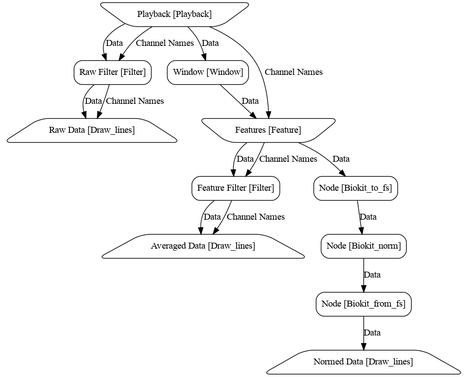
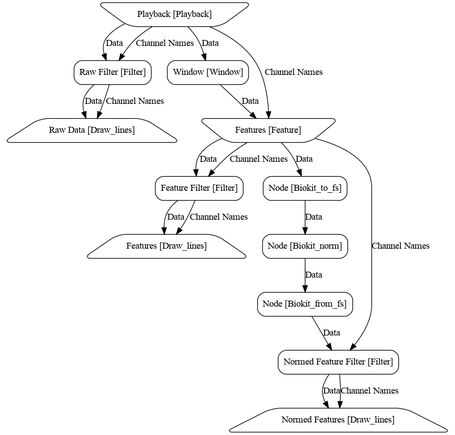
wip

Changed region(s): [[0.0, 0.0, 0.9846, 1.0], [0.7692, 0.3501, 0.8, 0.3793]]

diff --git a/src/nodes/node.py b/src/nodes/node.py
@@ -142,15 +142,18 @@ class Node():
             raise(ValueError("Module does not have inputs."))
         if self.input_is_set:
             raise(ValueError("Module input already set."))
+        # if str(self) in list(map(str, self.discover_parents(self))):
+        #     raise(ValueError("Module name already taken by parent"))
         if not isinstance(input_classes, list):
             input_classes = [input_classes]
             
         for inputId, inputClass in enumerate(input_classes):
-            inputClass.add_output(self, inputId)
+            inputClass.add_output(self, data_id=inputId)
             
         self.input_classes = input_classes
         self.input_is_set = True
         
+    # TODO: think about api, should we rather use set_inputs instead of add_output? (i think that was the original intention, but i kinda like the current state quite a lot)
     def add_output(self, new_output, data_id=None, data_stream="Data", recv_name='receive_data'):
         """
         Adds a new class that this class will output data to. Used
@@ -251,7 +254,7 @@ class Node():
         dot = Digraph(format = 'png', strict = False)
 
         # as the str rep need to be unique we can get only the unique instances this way 
-        nodes = list({str(n):n for n in self.discover_nodes(self)}.values())
+        nodes = list({str(n):n for n in self.discover_childs(self)}.values())
 
         # First pass: create nodes
         for node in nodes:
@@ -274,14 +277,22 @@ class Node():
 
 
     @classmethod
-    def discover_nodes(self, node):
+    def discover_childs(self, node):
         if len(node.output_classes) > 0:
-            childs = [n.discover_nodes(n) for n in node.get_outputs()]
+            childs = [n.discover_childs(n) for n in node.get_outputs()]
             return [node] + list(np.concatenate(childs))
         return [node]
 
+    # TODO: doesn't currently work, as we are ignoring the set_inputs api and are using the add_output one, above is a todo to reconsider
+    @classmethod
+    def discover_parents(self, node):
+        if len(node.input_classes) > 0:
+            parents = [n.discover_parents(n) for n in node.input_classes]
+            return [node] + list(np.concatenate(parents))
+        return [node]
+
     def save (self, path):
-        nodes = self.discover_nodes(self)
+        nodes = self.discover_childs(self)
         
         # TODO: fix this, as we now can have two inputs with different streams :D
         # node_names = list(map(str, nodes))

diff --git a/src/nodes/draw_lines.py b/src/nodes/draw_lines.py
@@ -37,6 +37,7 @@ class Draw_lines(Node):
         self.data_queue = mp.SimpleQueue()
         self.name_queue = mp.SimpleQueue()
 
+        self.names = [''] * n_plots
         self.axes = []
 
     def _get_setup(self):
@@ -54,10 +55,11 @@ class Draw_lines(Node):
         if self.n_plots <= 1:
             axes = [axes]
 
-        for ax in axes:
+        for name, ax in zip(self.names, axes):
             ax.set_ylim(*self.ylim)
             ax.set_xlim(0, self.xAxisLength)
             ax.set_yticks([])
+            ax.set_ylabel(name)
             ticks = np.linspace(0, self.xAxisLength, 11).astype(np.int)
             ax.set_xticks(ticks)
             ax.set_xticklabels(ticks - self.xAxisLength)
@@ -71,11 +73,17 @@ class Draw_lines(Node):
         def update (**kwargs):
             nonlocal self
 
+            # TODO: figure out how to update the label names once the initial draw happened!
+
             # update axis names
-            while not self.name_queue.empty():
-                names = self.name_queue.get()
+            if not self.name_queue.empty():
+                while not self.name_queue.empty():
+                    self.names = self.name_queue.get()
+                
                 for i, ax in enumerate(self.axes):
-                    ax.set_ylabel(names[i])
+                    ax.set_ylabel(self.names[i])
+                return [ax.yaxis.label for ax in self.axes]
+                # TODO: figure out if an early return messes up some of the data visualiztion, ie if some parts are thrown away. don't think so, but double check...
 
             # update axis values
             while not self.data_queue.empty():

diff --git a/create_pipeline.py b/create_pipeline.py
@@ -71,7 +71,7 @@ filter2 = Filter(name="Feature Filter", names=channel_names_fts)
 fts.add_output(filter2)
 fts.add_output(filter2, data_stream="Channel Names", recv_name="receive_channels")
 
-draw_fts = Draw_lines(name='Averaged Data', n_plots=len(channel_names_fts), xAxisLength=x_processed)
+draw_fts = Draw_lines(name='Features', n_plots=len(channel_names_fts), xAxisLength=x_processed)
 filter2.add_output(draw_fts)
 filter2.add_output(draw_fts, data_stream="Channel Names", recv_name="receive_channels")
 
@@ -84,8 +84,14 @@ to_fs.add_output(norm)
 from_fs = Biokit_from_fs()
 norm.add_output(from_fs)
 
-draw_normed = Draw_lines(name='Normed Data', n_plots=len(channel_names_fts), ylim=(-5, 5), xAxisLength=x_processed)
-from_fs.add_output(draw_normed)
+filter3 = Filter(name="Normed Feature Filter", names=channel_names_fts)
+from_fs.add_output(filter3)
+fts.add_output(filter3, data_stream="Channel Names", recv_name="receive_channels")
+
+draw_normed = Draw_lines(name='Normed Features', n_plots=len(channel_names_fts), ylim=(-5, 5), xAxisLength=x_processed)
+filter3.add_output(draw_normed)
+filter3.add_output(draw_normed, data_stream="Channel Names", recv_name="receive_channels")
+
 
 recog = Biokit_recognizer(model_path="./models/KneeBandageCSL2018/partition-stand/sequence/", token_insertion_penalty=50)
 norm.add_output(recog)

diff --git a/main.py b/main.py
@@ -27,8 +27,8 @@ font={'size': 6}
 
 # TODO: let nodes explizitly declare this! 
 # TODO: while we're at it: let nodes declare available/required input and output streams
-# works because the str representation of each node in a pipline must be unique
-draws = {str(n): n.init_draw for n in Node.discover_nodes(pipeline) if hasattr(n, 'init_draw')}.values()
+# the following works because the str representation of each node in a pipline must be unique
+draws = {str(n): n.init_draw for n in Node.discover_childs(pipeline) if hasattr(n, 'init_draw')}.values()
 print(draws)
 
 plt.rc('font', **font)
